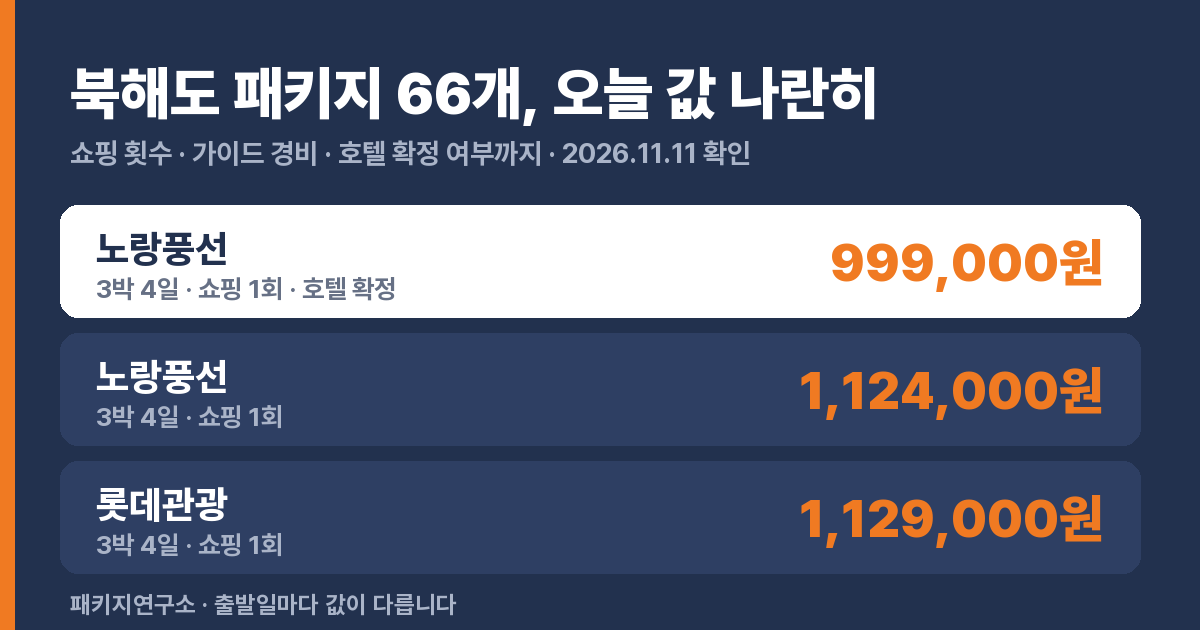
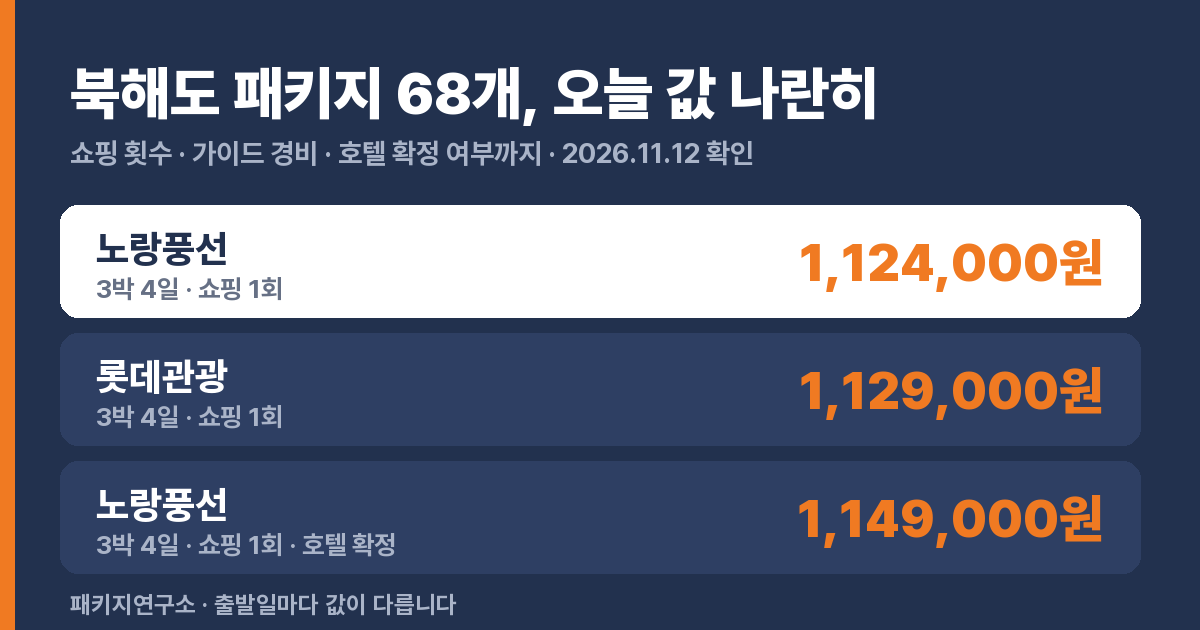
목적지 비교 페이지 2026.11.12

diff --git a/d/hokkaido.html b/d/hokkaido.html
@@ -1,8 +1,8 @@
 <!doctype html><html lang="ko"><head>
 <meta charset="utf-8"><meta name="viewport" content="width=device-width,initial-scale=1">
-<title>북해도 패키지 비교 66개 · 북해도 패키지 여행 경비 — 11/11 기준 최저 999,000원 | 패키지연구소</title>
-<meta name="description" content="북해도 패키지 66개 오늘 값 · 1인 999,000원부터 · 노쇼핑 7개 · 부모님 모시기 편한 조건(낮 출발·쇼핑 1회 이하·가이드 경비 포함) 21개. 쇼핑 횟수·가이드 경비·호텔 확정 여부로 나란히 비교합니다.">
-<link rel="canonical" href="https://package-researcher.github.io/d/hokkaido.html"><meta property="og:type" content="website"><meta property="og:url" content="https://package-researcher.github.io/d/hokkaido.html"><meta property="og:title" content="북해도 패키지 66개, 나란히 비교"><meta property="og:description" content="가격·쇼핑 횟수·가이드 경비·호텔 확정 여부 · 오늘 기준 요금"><meta property="og:image" content="https://package-researcher.github.io/d/og/hokkaido.png"><meta property="og:image:width" content="1200"><meta property="og:image:height" content="630"><meta name="twitter:card" content="summary_large_image"><script type="application/ld+json">{"@context": "https://schema.org", "@graph": [{"@type": "WebPage", "name": "북해도 패키지 66개 비교", "url": "https://package-researcher.github.io/d/hokkaido.html", "publisher": {"@type": "Organization", "name": "패키지연구소", "url": "https://package-researcher.github.io/", "logo": "https://package-researcher.github.io/logo.png", "sameAs": ["https://www.youtube.com/@package-researcher", "https://www.instagram.com/package_researcher", "https://www.threads.net/@package_researcher", "https://clip.naver.com/@packagelabs", "https://blog.naver.com/robotnady10", "https://spnd.tistory.com"]}, "inLanguage": "ko-KR", "dateModified": "2026-11-11"}, {"@type": "BreadcrumbList", "itemListElement": [{"@type": "ListItem", "position": 1, "name": "패키지연구소", "item": "https://package-researcher.github.io/"}, {"@type": "ListItem", "position": 2, "name": "북해도 패키지 비교", "item": "https://package-researcher.github.io/d/hokkaido.html"}]}, {"@type": "ItemList", "name": "북해도 패키지 값싼 순", "numberOfItems": 66, "itemListElement": [{"@type": "ListItem", "position": 1, "item": {"@type": "Product", "name": "나고야4일신호타카로프웨이겐로쿠엔천연온천나고야특급호텔4대특식나고야성", "brand": {"@type": "Organization", "name": "노랑풍선"}, "description": "3박 4일 · 쇼핑 1회 · 현지 가이드 경비 4,000엔", "offers": {"@type": "Offer", "price": 999000, "priceCurrency": "KRW", "url": "https://package-researcher.github.io/d/hokkaido.html", "seller": {"@type": "Organization", "name": "노랑풍선"}}}}, {"@type": "ListItem", "position": 2, "item": {"@type": "Product", "name": "부산출발 삿포로 4일 온천호텔3박 실속 이온몰 비에이 후라노 오타루 노보리베츠 도야", "brand": {"@type": "Organization", "name": "노랑풍선"}, "description": "3박 4일 · 쇼핑 1회 · 현지 가이드 경비 4만원", "offers": {"@type": "Offer", "price": 1124000, "priceCurrency": "KRW", "url": "https://package-researcher.github.io/d/hokkaido.html", "seller": {"@type": "Organization", "name": "노랑풍선"}}}}, {"@type": "ListItem", "position": 3, "item": {"@type": "Product", "name": "부산[ZE][실속]청정자연[온천호텔1박+삿포로2박][청의호수/흰수염폭포+대게무제한] 비에이/후라노/삿포로 4일", "brand": {"@type": "Organization", "name": "롯데관광"}, "description": "3박 4일 · 쇼핑 1회 · 현지 가이드 경비 4만원", "offers": {"@type": "Offer", "price": 1129000, "priceCurrency": "KRW", "url": "https://package-researcher.github.io/d/hokkaido.html", "seller": {"@type": "Organization", "name": "롯데관광"}}}}, {"@type": "ListItem", "position": 4, "item": {"@type": "Product", "name": "북해도4일[팁포함]특급온천호텔2박,프리미엄소운쿄숙박,로프웨이,대게뷔페+샤브샤브,비에이,오타루", "brand": {"@type": "Organization", "name": "노랑풍선"}, "description": "3박 4일 · 쇼핑 1회 · 가이드 경비 포함", "offers": {"@type": "Offer", "price": 1149000, "priceCurrency": "KRW", "url": "https://package-researcher.github.io/d/hokkaido.html", "seller": {"@type": "Organization", "name": "노랑풍선"}}}}, {"@type": "ListItem", "position": 5, "item": {"@type": "Product", "name": "[북해도 3대 온천여행] 북해도 4일게뷔페/주류무제한/온천2박/팁포함", "brand": {"@type": "Organization", "name": "참좋은여행"}, "description": "3박 4일 · 쇼핑 1회 · 가이드 경비 포함", "offers": {"@type": "Offer", "price": 1149000, "priceCurrency": "KRW", "url": "https://package-researcher.github.io/d/hokkaido.html", "seller": {"@type": "Organization", "name": "참좋은여행"}}}}, {"@type": "ListItem", "position": 6, "item": {"@type": "Product", "name": "북해도4일/ [일루미네이션 축제][도야썬팔레스/호수뷰]대게뷔페2회+주류무제한 / 특급온천2박+시내1박", "brand": {"@type": "Organization", "name": "교원투어 여행이지"}, "description": "3박 4일 · 쇼핑 1회 · 현지 가이드 경비 4,000엔", "offers": {"@type": "Offer", "price": 1149000, "priceCurrency": "KRW", "url": "https://package-researcher.github.io/d/hokkaido.html", "seller": {"@type": "Organization", "name": "교원투어 여행이지"}}}}, {"@type": "ListItem", "position": 7, "item": {"@type": "Product", "name": "[확정/부산/이스타항공/오후출발][온천호텔 숙박] 후라노/비에이, 노보리베츠/도야/오타루/삿포로 4일", "brand": {"@type": "Organization", "name": "참좋은여행"}, "description": "3박 4일 · 쇼핑 1회 · 현지 가이드 경비 4만원", "offers": {"@type": "Offer", "price": 1162000, "priceCurrency": "KRW", "url": "https://package-researcher.github.io/d/hokkaido.html", "seller": {"@type": "Organization", "name": "참좋은여행"}}}}, {"@type": "ListItem", "position": 8, "item": {"@type": "Product", "name": "삿포로 일루미네이션[온천 2박+ 시내스파 1박] 북해도/비에이/오비히로 4일 [모르온천/팁포함/게뷔페]", "brand": {"@type": "Organization", "name": "참좋은여행"}, "description": "3박 4일 · 쇼핑 1회 · 가이드 경비 포함", "offers": {"@type": "Offer", "price": 1199000, "priceCurrency": "KRW", "url": "https://package-researcher.github.io/d/hokkaido.html", "seller": {"@type": "Organization", "name": "참좋은여행"}}}}, {"@type": "ListItem", "position": 9, "item": {"@type": "Product", "name": "북해도4일[눈꽃여행][일루미네이션]오타루숙박+운하야경/비에이/도야/삿포로 / 전일정특급 + 온천", "brand": {"@type": "Organization", "name": "교원투어 여행이지"}, "description": "3박 4일 · 쇼핑 1회 · 현지 가이드 경비 4,000엔", "offers": {"@type": "Offer", "price": 1199000, "priceCurrency": "KRW", "url": "https://package-researcher.github.io/d/hokkaido.html", "seller": {"@type": "Organization", "name": "교원투어 여행이지"}}}}, {"@type": "ListItem", "position": 10, "item": {"@type": "Product", "name": "[기타유자와 특급 온천/노보리베츠 온천] 프리미엄 북해도 4일[팁포함/3대 게뷔페/주류 무제한 2회]", "brand": {"@type": "Organization", "name": "참좋은여행"}, "description": "3박 4일 · 쇼핑 1회 · 가이드 경비 포함", "offers": {"@type": "Offer", "price": 1249000, "priceCurrency": "KRW", "url": "https://package-researcher.github.io/d/hokkaido.html", "seller": {"@type": "Organization", "name": "참좋은여행"}}}}]}]}</script>
+<title>북해도 패키지 비교 68개 · 북해도 패키지 여행 경비 — 11/12 기준 최저 1,124,000원 | 패키지연구소</title>
+<meta name="description" content="북해도 패키지 68개 오늘 값 · 1인 1,124,000원부터 · 노쇼핑 7개 · 부모님 모시기 편한 조건(낮 출발·쇼핑 1회 이하·가이드 경비 포함) 22개. 쇼핑 횟수·가이드 경비·호텔 확정 여부로 나란히 비교합니다.">
+<link rel="canonical" href="https://package-researcher.github.io/d/hokkaido.html"><meta property="og:type" content="website"><meta property="og:url" content="https://package-researcher.github.io/d/hokkaido.html"><meta property="og:title" content="북해도 패키지 68개, 나란히 비교"><meta property="og:description" content="가격·쇼핑 횟수·가이드 경비·호텔 확정 여부 · 오늘 기준 요금"><meta property="og:image" content="https://package-researcher.github.io/d/og/hokkaido.png"><meta property="og:image:width" content="1200"><meta property="og:image:height" content="630"><meta name="twitter:card" content="summary_large_image"><script type="application/ld+json">{"@context": "https://schema.org", "@graph": [{"@type": "WebPage", "name": "북해도 패키지 68개 비교", "url": "https://package-researcher.github.io/d/hokkaido.html", "publisher": {"@type": "Organization", "name": "패키지연구소", "url": "https://package-researcher.github.io/", "logo": "https://package-researcher.github.io/logo.png", "sameAs": ["https://www.youtube.com/@package-researcher", "https://www.instagram.com/package_researcher", "https://www.threads.net/@package_researcher", "https://clip.naver.com/@packagelabs", "https://blog.naver.com/robotnady10", "https://spnd.tistory.com"]}, "inLanguage": "ko-KR", "dateModified": "2026-11-12"}, {"@type": "BreadcrumbList", "itemListElement": [{"@type": "ListItem", "position": 1, "name": "패키지연구소", "item": "https://package-researcher.github.io/"}, {"@type": "ListItem", "position": 2, "name": "북해도 패키지 비교", "item": "https://package-researcher.github.io/d/hokkaido.html"}]}, {"@type": "ItemList", "name": "북해도 패키지 값싼 순", "numberOfItems": 68, "itemListElement": [{"@type": "ListItem", "position": 1, "item": {"@type": "Product", "name": "부산출발 삿포로 4일 온천호텔3박 실속 이온몰 비에이 후라노 오타루 노보리베츠 도야", "brand": {"@type": "Organization", "name": "노랑풍선"}, "description": "3박 4일 · 쇼핑 1회 · 현지 가이드 경비 4만원", "offers": {"@type": "Offer", "price": 1124000, "priceCurrency": "KRW", "url": "https://package-researcher.github.io/d/hokkaido.html", "seller": {"@type": "Organization", "name": "노랑풍선"}}}}, {"@type": "ListItem", "position": 2, "item": {"@type": "Product", "name": "부산[ZE][실속]청정자연[온천호텔1박+삿포로2박][청의호수/흰수염폭포+대게무제한] 비에이/후라노/삿포로 4일", "brand": {"@type": "Organization", "name": "롯데관광"}, "description": "3박 4일 · 쇼핑 1회 · 현지 가이드 경비 4만원", "offers": {"@type": "Offer", "price": 1129000, "priceCurrency": "KRW", "url": "https://package-researcher.github.io/d/hokkaido.html", "seller": {"@type": "Organization", "name": "롯데관광"}}}}, {"@type": "ListItem", "position": 3, "item": {"@type": "Product", "name": "북해도4일[팁포함]특급온천호텔2박,프리미엄소운쿄숙박,로프웨이,대게뷔페+샤브샤브,비에이,오타루", "brand": {"@type": "Organization", "name": "노랑풍선"}, "description": "3박 4일 · 쇼핑 1회 · 가이드 경비 포함", "offers": {"@type": "Offer", "price": 1149000, "priceCurrency": "KRW", "url": "https://package-researcher.github.io/d/hokkaido.html", "seller": {"@type": "Organization", "name": "노랑풍선"}}}}, {"@type": "ListItem", "position": 4, "item": {"@type": "Product", "name": "[북해도 3대 온천여행] 북해도 4일게뷔페/주류무제한/온천2박/팁포함", "brand": {"@type": "Organization", "name": "참좋은여행"}, "description": "3박 4일 · 쇼핑 1회 · 가이드 경비 포함", "offers": {"@type": "Offer", "price": 1149000, "priceCurrency": "KRW", "url": "https://package-researcher.github.io/d/hokkaido.html", "seller": {"@type": "Organization", "name": "참좋은여행"}}}}, {"@type": "ListItem", "position": 5, "item": {"@type": "Product", "name": "북해도4일/ [일루미네이션 축제][도야썬팔레스/호수뷰]대게뷔페2회+주류무제한 / 특급온천2박+시내1박", "brand": {"@type": "Organization", "name": "교원투어 여행이지"}, "description": "3박 4일 · 쇼핑 1회 · 현지 가이드 경비 4,000엔", "offers": {"@type": "Offer", "price": 1149000, "priceCurrency": "KRW", "url": "https://package-researcher.github.io/d/hokkaido.html", "seller": {"@type": "Organization", "name": "교원투어 여행이지"}}}}, {"@type": "ListItem", "position": 6, "item": {"@type": "Product", "name": "[확정/부산/이스타항공/오후출발][온천호텔 숙박] 후라노/비에이, 노보리베츠/도야/오타루/삿포로 4일", "brand": {"@type": "Organization", "name": "참좋은여행"}, "description": "3박 4일 · 쇼핑 1회 · 현지 가이드 경비 4만원", "offers": {"@type": "Offer", "price": 1162000, "priceCurrency": "KRW", "url": "https://package-researcher.github.io/d/hokkaido.html", "seller": {"@type": "Organization", "name": "참좋은여행"}}}}, {"@type": "ListItem", "position": 7, "item": {"@type": "Product", "name": "삿포로 일루미네이션[온천 2박+ 시내스파 1박] 북해도/비에이/오비히로 4일 [모르온천/팁포함/게뷔페]", "brand": {"@type": "Organization", "name": "참좋은여행"}, "description": "3박 4일 · 쇼핑 1회 · 가이드 경비 포함", "offers": {"@type": "Offer", "price": 1199000, "priceCurrency": "KRW", "url": "https://package-researcher.github.io/d/hokkaido.html", "seller": {"@type": "Organization", "name": "참좋은여행"}}}}, {"@type": "ListItem", "position": 8, "item": {"@type": "Product", "name": "북해도4일[눈꽃여행][일루미네이션]오타루숙박+운하야경/비에이/도야/삿포로 / 전일정특급 + 온천", "brand": {"@type": "Organization", "name": "교원투어 여행이지"}, "description": "3박 4일 · 쇼핑 1회 · 현지 가이드 경비 4,000엔", "offers": {"@type": "Offer", "price": 1199000, "priceCurrency": "KRW", "url": "https://package-researcher.github.io/d/hokkaido.html", "seller": {"@type": "Organization", "name": "교원투어 여행이지"}}}}, {"@type": "ListItem", "position": 9, "item": {"@type": "Product", "name": "[기타유자와 특급 온천/노보리베츠 온천] 프리미엄 북해도 4일[팁포함/3대 게뷔페/주류 무제한 2회]", "brand": {"@type": "Organization", "name": "참좋은여행"}, "description": "3박 4일 · 쇼핑 1회 · 가이드 경비 포함", "offers": {"@type": "Offer", "price": 1249000, "priceCurrency": "KRW", "url": "https://package-researcher.github.io/d/hokkaido.html", "seller": {"@type": "Organization", "name": "참좋은여행"}}}}, {"@type": "ListItem", "position": 10, "item": {"@type": "Product", "name": "삿포로 일루미네이션[힐튼 특급호텔+팁포함] 북해도 4일[온천 2박/3대 게뷔페+주류 무제한/야식소바]", "brand": {"@type": "Organization", "name": "참좋은여행"}, "description": "3박 4일 · 쇼핑 1회 · 가이드 경비 포함", "offers": {"@type": "Offer", "price": 1249000, "priceCurrency": "KRW", "url": "https://package-researcher.github.io/d/hokkaido.html", "seller": {"@type": "Organization", "name": "참좋은여행"}}}}]}]}</script>
 <style>
 *{box-sizing:border-box}
 body{margin:0;background:#F7F5EF;color:#22314E;word-break:keep-all;overflow-wrap:anywhere;
@@ -62,17 +62,16 @@ h1{font-size:27px;line-height:1.3;margin:6px 0 4px;letter-spacing:-.02em}
 </style></head><body><div class="wrap">
 <a class="back" href="https://package-researcher.github.io/">← 패키지연구소</a>
 <h1>북해도 패키지 비교 — 오늘 값 나란히</h1>
-<p class="sub">66개 · 2026.11.11 기준 · 값싼 순</p>
-<p class="answer" style="font-size:16px;line-height:1.6;margin:6px 0 10px"><b>한 줄 답:</b> 2026.11.11 기준 북해도 패키지 66개 중 최저 999,000원(노랑풍선 · 3박 4일), 쇼핑 없는 상품은 1,469,900원부터, 부모님 모시기 편한 조건(낮 출발·쇼핑 1회 이하·가이드 경비 포함)은 1,149,000원부터입니다. 출발일마다 값이 다릅니다.</p><p class="sub" style="margin-top:-4px">「북해도 패키지 여행 경비」·「일본 북해도 패키지」 찾는 분께 — 오늘 판매 중인 북해도 패키지를 값만이 아니라 쇼핑·가이드 경비·출발 시각까지 한 화면에 놓았습니다.</p><p class="sub"><a href="https://package-researcher.github.io/d/family.html?s=cmp">환갑·칠순 가족여행이면 → 목적지별 6명·10명 총액 비교</a></p><p class="sub"><a href="https://package-researcher.github.io/t/hokkaido.html">북해도 공항→시내·근교 이동 시간 표 →</a></p>
-<div class="top3"><h2>오늘 최저가 3</h2><div class="t3"><div class="rk">1</div><div class="who"><b>노랑풍선</b><span>3박 4일 · 쇼핑 1회 · 현지 가이드 경비 4,000엔</span></div><div class="t3p">999,000원</div><a href="/r/n/FUiXf4ZM.html" target="_blank" rel="sponsored noopener">요금 보기</a></div><div class="t3"><div class="rk">2</div><div class="who"><b>노랑풍선</b><span>3박 4일 · 쇼핑 1회 · 현지 가이드 경비 4만원</span></div><div class="t3p">1,124,000원</div><a href="/r/n/GT4keUgP.html" target="_blank" rel="sponsored noopener">요금 보기</a></div><div class="t3"><div class="rk">3</div><div class="who"><b>롯데관광</b><span>3박 4일 · 쇼핑 1회 · 현지 가이드 경비 4만원</span></div><div class="t3p">1,129,000원</div><a href="/r/n/GmpguQem.html" target="_blank" rel="sponsored noopener">요금 보기</a></div></div>
+<p class="sub">68개 · 2026.11.12 기준 · 값싼 순</p>
+<p class="answer" style="font-size:16px;line-height:1.6;margin:6px 0 10px"><b>한 줄 답:</b> 2026.11.12 기준 북해도 패키지 68개 중 최저 1,124,000원(노랑풍선 · 3박 4일), 쇼핑 없는 상품은 1,469,900원부터, 부모님 모시기 편한 조건(낮 출발·쇼핑 1회 이하·가이드 경비 포함)은 1,149,000원부터입니다. 출발일마다 값이 다릅니다.</p><p class="sub" style="margin-top:-4px">「북해도 패키지 여행 경비」·「일본 북해도 패키지」 찾는 분께 — 오늘 판매 중인 북해도 패키지를 값만이 아니라 쇼핑·가이드 경비·출발 시각까지 한 화면에 놓았습니다.</p><p class="sub"><a href="https://package-researcher.github.io/d/family.html?s=cmp">환갑·칠순 가족여행이면 → 목적지별 6명·10명 총액 비교</a></p><p class="sub"><a href="https://package-researcher.github.io/t/hokkaido.html">북해도 공항→시내·근교 이동 시간 표 →</a></p>
+<div class="top3"><h2>오늘 최저가 3</h2><div class="t3"><div class="rk">1</div><div class="who"><b>노랑풍선</b><span>3박 4일 · 쇼핑 1회 · 현지 가이드 경비 4만원</span></div><div class="t3p">1,124,000원</div><a href="/r/n/GT4keUgP.html" target="_blank" rel="sponsored noopener">요금 보기</a></div><div class="t3"><div class="rk">2</div><div class="who"><b>롯데관광</b><span>3박 4일 · 쇼핑 1회 · 현지 가이드 경비 4만원</span></div><div class="t3p">1,129,000원</div><a href="/r/n/GmpguQem.html" target="_blank" rel="sponsored noopener">요금 보기</a></div><div class="t3"><div class="rk">3</div><div class="who"><b>노랑풍선</b><span>3박 4일 · 쇼핑 1회 · 가이드 경비 포함</span></div><div class="t3p">1,149,000원</div><a href="/r/n/FlBVQZtD.html" target="_blank" rel="sponsored noopener">요금 보기</a></div></div>
 <div class="plab"><div class="plab-t">북해도 패키지 전체를 조건으로 비교</div><div class="plab-s">쇼핑 0회·선택관광 없음·가이드 경비 포함만 골라 보기</div><a class="plab-go" href="https://pkg-lab.com/go/?q=%EB%B6%81%ED%95%B4%EB%8F%84&amp;utm_source=ghpages&amp;utm_medium=card&amp;utm_campaign=dest" target="_blank" rel="sponsored noopener">조건으로 골라 보기 →</a></div>
 <div class="note"><b>이 표를 보는 법.</b> 값만 보면 안 됩니다.
 <b>쇼핑 횟수</b>가 값을 만들고(0회면 보통 20만원 이상 비쌉니다),
 <b>가이드 경비</b>는 현지에서 따로 내는 돈이며,
 <b>호텔 확정</b>은 이름이 미리 정해졌는지입니다(미정이면 등급만 보장).
 같은 목적지라도 이 셋으로 실제 부담이 갈립니다.</div>
-<div class="card best"><div class="tag">최저가</div> <div class="tag gray">호텔 확정</div><div class="name">나고야4일신호타카로프웨이겐로쿠엔천연온천나고야특급호텔4대특식나고야성</div><div class="price">999,000원<span>1인</span></div><div class="grid"><div class="kv"><b>여행사</b>노랑풍선</div><div class="kv"><b>일정</b>3박 4일</div><div class="kv"><b>항공</b>제주항공 직항</div><div class="kv"><b>출발</b>09:05</div><div class="kv"><b>쇼핑</b>1회</div><div class="kv"><b>가이드 경비</b>4,000엔</div><div class="kv"><b>식사</b>10회</div><div class="kv"><b>호텔</b>호텔 앰비언트 아즈미노</div><div class="kv"><b>인솔자</b>없음</div></div><div class="fit"><span class="ok">좋은 점</span> 직항 · 호텔 미리 확정<br><span class="no">따져볼 점</span> 가이드 경비 현지 4,000엔</div><a class="go" href="/r/n/FUiXf4ZM.html" target="_blank" rel="sponsored noopener">오늘 기준 요금 보기</a></div>
-<div class="card"><div class="name">부산출발 삿포로 4일 온천호텔3박 실속 이온몰 비에이 후라노 오타루 노보리베츠 도야</div><div class="price">1,124,000원<span>1인</span></div><div class="grid"><div class="kv"><b>여행사</b>노랑풍선</div><div class="kv"><b>일정</b>3박 4일</div><div class="kv"><b>항공</b>이스타항공 직항</div><div class="kv"><b>출발</b>14:30</div><div class="kv"><b>쇼핑</b>1회</div><div class="kv"><b>가이드 경비</b>4만원</div><div class="kv"><b>식사</b>8회</div><div class="kv"><b>호텔</b>조잔케이 뷰 호텔 또는 동급</div><div class="kv"><b>인솔자</b>없음</div></div><div class="fit"><span class="ok">좋은 점</span> 직항<br><span class="no">따져볼 점</span> 가이드 경비 현지 4만원</div><a class="go" href="/r/n/GT4keUgP.html" target="_blank" rel="sponsored noopener">오늘 기준 요금 보기</a></div>
+<div class="card best"><div class="tag">최저가</div><div class="name">부산출발 삿포로 4일 온천호텔3박 실속 이온몰 비에이 후라노 오타루 노보리베츠 도야</div><div class="price">1,124,000원<span>1인</span></div><div class="grid"><div class="kv"><b>여행사</b>노랑풍선</div><div class="kv"><b>일정</b>3박 4일</div><div class="kv"><b>항공</b>이스타항공 직항</div><div class="kv"><b>출발</b>14:30</div><div class="kv"><b>쇼핑</b>1회</div><div class="kv"><b>가이드 경비</b>4만원</div><div class="kv"><b>식사</b>8회</div><div class="kv"><b>호텔</b>조잔케이 뷰 호텔 또는 동급</div><div class="kv"><b>인솔자</b>없음</div></div><div class="fit"><span class="ok">좋은 점</span> 직항<br><span class="no">따져볼 점</span> 가이드 경비 현지 4만원</div><a class="go" href="/r/n/GT4keUgP.html" target="_blank" rel="sponsored noopener">오늘 기준 요금 보기</a></div>
 <div class="card"><div class="name">부산[ZE][실속]청정자연[온천호텔1박+삿포로2박][청의호수/흰수염폭포+대게무제한] 비에이/후라노/삿포로 4일</div><div class="price">1,129,000원<span>1인</span></div><div class="grid"><div class="kv"><b>여행사</b>롯데관광</div><div class="kv"><b>일정</b>3박 4일</div><div class="kv"><b>항공</b>이스타항공 직항</div><div class="kv"><b>출발</b>14:30</div><div class="kv"><b>쇼핑</b>1회</div><div class="kv"><b>가이드 경비</b>4만원</div><div class="kv"><b>식사</b>8회</div><div class="kv"><b>인솔자</b>동행</div></div><div class="fit"><span class="ok">좋은 점</span> 직항 · 인솔자 동행<br><span class="no">따져볼 점</span> 가이드 경비 현지 4만원</div><a class="go" href="/r/n/GmpguQem.html" target="_blank" rel="sponsored noopener">오늘 기준 요금 보기</a></div>
 <div class="card"><div class="tag gray">호텔 확정</div><div class="name">북해도4일[팁포함]특급온천호텔2박,프리미엄소운쿄숙박,로프웨이,대게뷔페+샤브샤브,비에이,오타루</div><div class="price">1,149,000원<span>1인</span></div><div class="grid"><div class="kv"><b>여행사</b>노랑풍선</div><div class="kv"><b>일정</b>3박 4일</div><div class="kv"><b>항공</b>이스타항공 직항</div><div class="kv"><b>출발</b>09:10</div><div class="kv"><b>쇼핑</b>1회</div><div class="kv"><b>가이드 경비</b>포함</div><div class="kv"><b>식사</b>9회</div><div class="kv"><b>호텔</b>소운카쿠 그랜드 호텔</div><div class="kv"><b>인솔자</b>동행</div></div><div class="fit"><span class="ok">좋은 점</span> 가이드 경비 포함 · 직항 · 호텔 미리 확정</div><a class="go" href="/r/n/FlBVQZtD.html" target="_blank" rel="sponsored noopener">오늘 기준 요금 보기</a></div>
 <div class="card"><div class="name">[북해도 3대 온천여행] 북해도 4일게뷔페/주류무제한/온천2박/팁포함</div><div class="price">1,149,000원<span>1인</span></div><div class="grid"><div class="kv"><b>여행사</b>참좋은여행</div><div class="kv"><b>일정</b>3박 4일</div><div class="kv"><b>항공</b>이스타항공 직항</div><div class="kv"><b>출발</b>07:40</div><div class="kv"><b>쇼핑</b>1회</div><div class="kv"><b>가이드 경비</b>포함</div><div class="kv"><b>식사</b>8회</div><div class="kv"><b>호텔</b>파크 호텔 미야비테이 또는 동급</div><div class="kv"><b>인솔자</b>동행</div></div><div class="fit"><span class="ok">좋은 점</span> 가이드 경비 포함 · 직항 · 인솔자 동행</div><a class="go" href="/r/n/GprgefAH.html" target="_blank" rel="sponsored noopener">오늘 기준 요금 보기</a></div>
@@ -108,9 +107,11 @@ h1{font-size:27px;line-height:1.3;margin:6px 0 4px;letter-spacing:-.02em}
 <div class="card"><div class="tag gray">호텔 확정</div><div class="name">홋카이도 4일 노보리베쓰 온천 도야유람선 온천호텔2박+시내1박 지다이무라 대게+주류무제한</div><div class="price">1,399,000원<span>1인</span></div><div class="grid"><div class="kv"><b>여행사</b>하나투어</div><div class="kv"><b>일정</b>3박 4일</div><div class="kv"><b>항공</b>에어프레미아 직항</div><div class="kv"><b>출발</b>09:40</div><div class="kv"><b>쇼핑</b>1회</div><div class="kv"><b>가이드 경비</b>4,000엔</div><div class="kv"><b>식사</b>9회</div><div class="kv"><b>호텔</b>파크 호텔 미야비테이</div><div class="kv"><b>인솔자</b>동행</div></div><div class="fit"><span class="ok">좋은 점</span> 직항 · 호텔 미리 확정 · 인솔자 동행<br><span class="no">따져볼 점</span> 가이드 경비 현지 4,000엔</div><a class="go" href="/r/n/G4dVAmXY.html" target="_blank" rel="sponsored noopener">오늘 기준 요금 보기</a></div>
 <div class="card"><div class="tag gray">호텔 확정</div><div class="name">[호텔업그레이드/기내식1회특별포함]홋카이도 4일 온천2박 마호로바업그레이드 도야유람선 다테지다이무라 삿포로 낭만오타루 게+샤브샤브+주류무제한</div><div class="price">1,399,900원<span>1인</span></div><div class="grid"><div class="kv"><b>여행사</b>하나투어</div><div class="kv"><b>일정</b>3박 4일</div><div class="kv"><b>항공</b>트리니티항공 직항</div><div class="kv"><b>출발</b>09:10</div><div class="kv"><b>쇼핑</b>1회</div><div class="kv"><b>가이드 경비</b>4,000엔</div><div class="kv"><b>식사</b>9회</div><div class="kv"><b>호텔</b>토야 선 팰리스 리조트 &amp; 스파</div><div class="kv"><b>인솔자</b>동행</div></div><div class="fit"><span class="ok">좋은 점</span> 직항 · 호텔 미리 확정 · 인솔자 동행<br><span class="no">따져볼 점</span> 가이드 경비 현지 4,000엔</div><a class="go" href="/r/n/GkICrxcF.html" target="_blank" rel="sponsored noopener">오늘 기준 요금 보기</a></div>
 <div class="card"><div class="tag gray">호텔 확정</div><div class="name">홋카이도 4일 후라노&amp;비에이 노보리베츠 천연온천 죠잔케이 삿포로2박 대게+음료 무제한</div><div class="price">1,439,000원<span>1인</span></div><div class="grid"><div class="kv"><b>여행사</b>하나투어</div><div class="kv"><b>일정</b>3박 4일</div><div class="kv"><b>항공</b>이스타항공 직항</div><div class="kv"><b>출발</b>09:10</div><div class="kv"><b>쇼핑</b>1회</div><div class="kv"><b>가이드 경비</b>4,000엔</div><div class="kv"><b>식사</b>9회</div><div class="kv"><b>호텔</b>조잔케이 뷰 호텔</div><div class="kv"><b>인솔자</b>동행</div></div><div class="fit"><span class="ok">좋은 점</span> 직항 · 호텔 미리 확정 · 인솔자 동행<br><span class="no">따져볼 점</span> 가이드 경비 현지 4,000엔</div><a class="go" href="/r/n/Fkaw9CYb.html" target="_blank" rel="sponsored noopener">오늘 기준 요금 보기</a></div>
+<div class="card"><div class="name">[가성비끝판왕] 삿포로/오타루/비에이 4일 (온천1박+시내2박+게다리뷔페)</div><div class="price">1,459,900원<span>1인</span></div><div class="grid"><div class="kv"><b>여행사</b>모두투어</div><div class="kv"><b>일정</b>3박 4일</div><div class="kv"><b>항공</b>제주항공 직항</div><div class="kv"><b>출발</b>11:00</div><div class="kv"><b>쇼핑</b>1회</div><div class="kv"><b>가이드 경비</b>4,000엔</div><div class="kv"><b>식사</b>8회</div><div class="kv"><b>인솔자</b>동행</div></div><div class="fit"><span class="ok">좋은 점</span> 직항 · 인솔자 동행<br><span class="no">따져볼 점</span> 가이드 경비 현지 4,000엔</div><a class="go" href="/r/n/xJcmAc9F.html" target="_blank" rel="sponsored noopener">오늘 기준 요금 보기</a></div>
 <div class="card"><div class="tag gray">호텔 확정</div><div class="name">[공동행사]홋카이도 4일 온천2박 도야유람선 다테지다이무라 삿포로 낭만오타루 게+샤브샤브+주류무제한</div><div class="price">1,459,900원<span>1인</span></div><div class="grid"><div class="kv"><b>여행사</b>하나투어</div><div class="kv"><b>일정</b>3박 4일</div><div class="kv"><b>항공</b>에어부산 직항</div><div class="kv"><b>출발</b>09:00</div><div class="kv"><b>쇼핑</b>1회</div><div class="kv"><b>가이드 경비</b>4,000엔</div><div class="kv"><b>식사</b>9회</div><div class="kv"><b>호텔</b>토야 선 팰리스 리조트 &amp; 스파</div><div class="kv"><b>인솔자</b>동행</div></div><div class="fit"><span class="ok">좋은 점</span> 직항 · 호텔 미리 확정 · 인솔자 동행<br><span class="no">따져볼 점</span> 가이드 경비 현지 4,000엔</div><a class="go" href="/r/n/xNpfJtnn.html" target="_blank" rel="sponsored noopener">오늘 기준 요금 보기</a></div>
 <div class="card"><div class="tag gray">호텔 확정</div><div class="name">홋카이도 4일 MD추천 비에이 크리스마스트리 타쿠신칸 자작나무길 아오이이케 시라히게노타키 낭만오타루산책 3대온천마을 소운쿄온천 대게특식</div><div class="price">1,469,900원<span>1인</span></div><div class="grid"><div class="kv"><b>여행사</b>하나투어</div><div class="kv"><b>일정</b>3박 4일</div><div class="kv"><b>항공</b>이스타항공 직항</div><div class="kv"><b>출발</b>14:30</div><div class="kv"><b>쇼핑</b>0회</div><div class="kv"><b>가이드 경비</b>포함</div><div class="kv"><b>식사</b>9회</div><div class="kv"><b>호텔</b>삿포로 프린스 호텔</div><div class="kv"><b>인솔자</b>동행</div></div><div class="fit"><span class="ok">좋은 점</span> 쇼핑 없음 · 가이드 경비 포함 · 직항</div><a class="go" href="/r/n/51u8EeNV.html" target="_blank" rel="sponsored noopener">오늘 기준 요금 보기</a></div>
 <div class="card"><div class="name">부산출발 삿포로 4일 한번에 다보는 꽉찬일정 온천호텔 2박 특식3회 삿포로 비에이 오타루 도야 노보리베츠</div><div class="price">1,486,000원<span>1인</span></div><div class="grid"><div class="kv"><b>여행사</b>노랑풍선</div><div class="kv"><b>일정</b>3박 4일</div><div class="kv"><b>항공</b>에어부산 직항</div><div class="kv"><b>출발</b>09:00</div><div class="kv"><b>쇼핑</b>1회</div><div class="kv"><b>가이드 경비</b>4만원</div><div class="kv"><b>식사</b>9회</div><div class="kv"><b>호텔</b>도야 썬팔레스 호텔 또는 도야 만세각 호텔  또는 동급</div><div class="kv"><b>인솔자</b>없음</div></div><div class="fit"><span class="ok">좋은 점</span> 직항<br><span class="no">따져볼 점</span> 가이드 경비 현지 4만원</div><a class="go" href="/r/n/5DZIpPl4.html" target="_blank" rel="sponsored noopener">오늘 기준 요금 보기</a></div>
+<div class="card"><div class="name">[스마트초이스] 홋카이도 4일후라노&amp;비에이 온천호텔2박+시내1박 크리스마스 나무 대게+샤브샤브+주류(음료)무제한 청정온천 소운쿄온천 죠잔케이</div><div class="price">1,499,000원<span>1인</span></div><div class="grid"><div class="kv"><b>여행사</b>하나투어</div><div class="kv"><b>일정</b>3박 4일</div><div class="kv"><b>항공</b>이스타항공 직항</div><div class="kv"><b>출발</b>14:35</div><div class="kv"><b>쇼핑</b>1회</div><div class="kv"><b>가이드 경비</b>4,000엔</div><div class="kv"><b>식사</b>9회</div><div class="kv"><b>호텔</b>베셀 호텔 캄파나 스스키노 또는 동급</div><div class="kv"><b>인솔자</b>동행</div></div><div class="fit"><span class="ok">좋은 점</span> 직항 · 인솔자 동행<br><span class="no">따져볼 점</span> 가이드 경비 현지 4,000엔</div><a class="go" href="/r/n/FyAVun9e.html" target="_blank" rel="sponsored noopener">오늘 기준 요금 보기</a></div>
 <div class="card"><div class="tag gray">호텔 확정</div><div class="name">북해도4일 청주출발 특급온천호텔2박 소운쿄숙박 석식호텔뷔페 삿포로,오타루,비에이</div><div class="price">1,499,000원<span>1인</span></div><div class="grid"><div class="kv"><b>여행사</b>노랑풍선</div><div class="kv"><b>일정</b>3박 4일</div><div class="kv"><b>항공</b>에어로케이 직항</div><div class="kv"><b>출발</b>07:50</div><div class="kv"><b>쇼핑</b>1회</div><div class="kv"><b>가이드 경비</b>4,000엔</div><div class="kv"><b>식사</b>9회</div><div class="kv"><b>호텔</b>조잔케이 뷰 호텔</div><div class="kv"><b>인솔자</b>없음</div></div><div class="fit"><span class="ok">좋은 점</span> 직항 · 호텔 미리 확정<br><span class="no">따져볼 점</span> 가이드 경비 현지 4,000엔</div><a class="go" href="/r/n/58qJzmmi.html" target="_blank" rel="sponsored noopener">오늘 기준 요금 보기</a></div>
 <div class="card"><div class="name">[스테디셀러/비에이숙박][쾌적최단동선]북해도/비에이/오타루 온천 4일 (3대게뷔페/술음료무제한/특급온천2박/노옵션)</div><div class="price">1,499,000원<span>1인</span></div><div class="grid"><div class="kv"><b>여행사</b>모두투어</div><div class="kv"><b>일정</b>3박 4일</div><div class="kv"><b>항공</b>이스타항공 직항</div><div class="kv"><b>출발</b>14:35</div><div class="kv"><b>쇼핑</b>1회</div><div class="kv"><b>가이드 경비</b>4,000엔</div><div class="kv"><b>식사</b>9회</div><div class="kv"><b>인솔자</b>동행</div></div><div class="fit"><span class="ok">좋은 점</span> 직항 · 인솔자 동행<br><span class="no">따져볼 점</span> 가이드 경비 현지 4,000엔</div><a class="go" href="/r/n/Gi04nyBf.html" target="_blank" rel="sponsored noopener">오늘 기준 요금 보기</a></div>
 <div class="card"><div class="name">[품격정통온천/팁포함] 삿포로/오타루/노보리베츠/도야 4일 (온천호텔2박+3대게요리.노미호다이/3대특전)</div><div class="price">1,549,000원<span>1인</span></div><div class="grid"><div class="kv"><b>여행사</b>모두투어</div><div class="kv"><b>일정</b>3박 4일</div><div class="kv"><b>항공</b>트리니티항공 직항</div><div class="kv"><b>출발</b>10:30</div><div class="kv"><b>쇼핑</b>1회</div><div class="kv"><b>가이드 경비</b>포함</div><div class="kv"><b>식사</b>9회</div><div class="kv"><b>인솔자</b>동행</div></div><div class="fit"><span class="ok">좋은 점</span> 가이드 경비 포함 · 직항 · 인솔자 동행</div><a class="go" href="/r/n/5HysY4ov.html" target="_blank" rel="sponsored noopener">오늘 기준 요금 보기</a></div>
@@ -123,6 +124,7 @@ h1{font-size:27px;line-height:1.3;margin:6px 0 4px;letter-spacing:-.02em}
 <div class="card"><div class="tag gray">호텔 확정</div><div class="name">홋카이도 4일 사계절내내베스트 후라노&amp;비에이 대게무제한 샤브샤브 무제한 온천1박 삿포로시내중심2박 감성가득오타루 삿포로 화이트 일루미네이션</div><div class="price">1,599,000원<span>1인</span></div><div class="grid"><div class="kv"><b>여행사</b>하나투어</div><div class="kv"><b>일정</b>3박 4일</div><div class="kv"><b>항공</b>트리니티항공 직항</div><div class="kv"><b>출발</b>10:20</div><div class="kv"><b>쇼핑</b>1회</div><div class="kv"><b>가이드 경비</b>4,000엔</div><div class="kv"><b>식사</b>9회</div><div class="kv"><b>호텔</b>파크 호텔 미야비테이</div><div class="kv"><b>인솔자</b>동행</div></div><div class="fit"><span class="ok">좋은 점</span> 직항 · 호텔 미리 확정 · 인솔자 동행<br><span class="no">따져볼 점</span> 가이드 경비 현지 4,000엔</div><a class="go" href="/r/n/xSBAYaRE.html" target="_blank" rel="sponsored noopener">오늘 기준 요금 보기</a></div>
 <div class="card"><div class="name">품격/항공문의계절에 물든 북해도 2 온천여행 노보리베츠ㆍ죠잔케이ㆍ삿포로 4일 우스산로프웨이/5대특식(대게무제한+음류ㆍ주류무제한)</div><div class="price">1,599,000원<span>1인</span></div><div class="grid"><div class="kv"><b>여행사</b>롯데관광</div><div class="kv"><b>일정</b>3박 4일</div><div class="kv"><b>항공</b>트리니티항공 직항</div><div class="kv"><b>출발</b>10:20</div><div class="kv"><b>쇼핑</b>1회</div><div class="kv"><b>가이드 경비</b>4,000엔</div><div class="kv"><b>식사</b>8회</div><div class="kv"><b>인솔자</b>동행</div></div><div class="fit"><span class="ok">좋은 점</span> 직항 · 인솔자 동행<br><span class="no">따져볼 점</span> 가이드 경비 현지 4,000엔</div><a class="go" href="/r/n/5YosYfQd.html" target="_blank" rel="sponsored noopener">오늘 기준 요금 보기</a></div>
 <div class="card"><div class="tag gray">호텔 확정</div><div class="name">홋카이도 4일 베스트셀러 화이트일루미네이션 인기코스 3대온천마을 노보리베츠 죠잔케이 게요리무제한 별미간식제공</div><div class="price">1,649,000원<span>1인</span></div><div class="grid"><div class="kv"><b>여행사</b>하나투어</div><div class="kv"><b>일정</b>3박 4일</div><div class="kv"><b>항공</b>제주항공 직항</div><div class="kv"><b>출발</b>12:25</div><div class="kv"><b>쇼핑</b>0회</div><div class="kv"><b>가이드 경비</b>포함</div><div class="kv"><b>식사</b>9회</div><div class="kv"><b>호텔</b>이비스 스타일 삿포로</div><div class="kv"><b>인솔자</b>동행</div></div><div class="fit"><span class="ok">좋은 점</span> 쇼핑 없음 · 가이드 경비 포함 · 직항</div><a class="go" href="/r/n/xTyFROEk.html" target="_blank" rel="sponsored noopener">오늘 기준 요금 보기</a></div>
+<div class="card"><div class="tag gray">호텔 확정</div><div class="name">XMAS [도야/조잔케이] 북해도 4일[팁포함/온천2박/게뷔페+주류무제한/이동거리최소화]</div><div class="price">1,699,000원<span>1인</span></div><div class="grid"><div class="kv"><b>여행사</b>참좋은여행</div><div class="kv"><b>일정</b>3박 4일</div><div class="kv"><b>항공</b>진에어 직항</div><div class="kv"><b>출발</b>08:35</div><div class="kv"><b>쇼핑</b>1회</div><div class="kv"><b>가이드 경비</b>포함</div><div class="kv"><b>식사</b>9회</div><div class="kv"><b>호텔</b>도야코 만세이카쿠 호텔 레이크사이드 테라스</div><div class="kv"><b>인솔자</b>동행</div></div><div class="fit"><span class="ok">좋은 점</span> 가이드 경비 포함 · 직항 · 호텔 미리 확정</div><a class="go" href="/r/n/Fz8F5Qvj.html" target="_blank" rel="sponsored noopener">오늘 기준 요금 보기</a></div>
 <div class="card"><div class="name">11/30 / 북해도4일[프라이빗온천][대한항공][료칸숙박]조잔케이/비에이/소운쿄/오타루/삿포로 / 특급온천2박+특급시내1박</div><div class="price">1,699,000원<span>1인</span></div><div class="grid"><div class="kv"><b>여행사</b>교원투어 여행이지</div><div class="kv"><b>일정</b>3박 4일</div><div class="kv"><b>항공</b>대한항공 직항</div><div class="kv"><b>출발</b>13:00</div><div class="kv"><b>쇼핑</b>1회</div><div class="kv"><b>가이드 경비</b>포함</div><div class="kv"><b>식사</b>11회</div><div class="kv"><b>호텔</b>ANA 크라운 플라자 삿포로 또는 동급 또는 동급</div><div class="kv"><b>인솔자</b>동행</div></div><div class="fit"><span class="ok">좋은 점</span> 가이드 경비 포함 · 직항 · 인솔자 동행</div><a class="go" href="/r/n/xllXeG70.html" target="_blank" rel="sponsored noopener">오늘 기준 요금 보기</a></div>
 <div class="card"><div class="tag gray">호텔 확정</div><div class="name">홋카이도 4일후라노 비에이 흰수염폭포 크리스마스 나무 순백의 오타루 삿포로 화이트 일루미네이션 대게+샤브샤브+음료 무제한</div><div class="price">1,699,000원<span>1인</span></div><div class="grid"><div class="kv"><b>여행사</b>하나투어</div><div class="kv"><b>일정</b>3박 4일</div><div class="kv"><b>항공</b>트리니티항공 직항</div><div class="kv"><b>출발</b>10:20</div><div class="kv"><b>쇼핑</b>0회</div><div class="kv"><b>가이드 경비</b>포함</div><div class="kv"><b>식사</b>9회</div><div class="kv"><b>호텔</b>도카치-마쿠베츠 그랜드브리오 호텔 - 루트-</div><div class="kv"><b>인솔자</b>동행</div></div><div class="fit"><span class="ok">좋은 점</span> 쇼핑 없음 · 가이드 경비 포함 · 직항</div><a class="go" href="/r/n/5xgPyj1j.html" target="_blank" rel="sponsored noopener">오늘 기준 요금 보기</a></div>
 <div class="card"><div class="name">[청주출발][스마트온천특급][삿포로2박]도야/북해도 4일(도야유람선/대게뷔페/1일자유가능)</div><div class="price">1,699,000원<span>1인</span></div><div class="grid"><div class="kv"><b>여행사</b>모두투어</div><div class="kv"><b>일정</b>3박 4일</div><div class="kv"><b>항공</b>에어로케이 직항</div><div class="kv"><b>출발</b>07:50</div><div class="kv"><b>쇼핑</b>1회</div><div class="kv"><b>가이드 경비</b>4,000엔</div><div class="kv"><b>식사</b>8회</div><div class="kv"><b>인솔자</b>동행</div></div><div class="fit"><span class="ok">좋은 점</span> 직항 · 인솔자 동행<br><span class="no">따져볼 점</span> 가이드 경비 현지 4,000엔</div><a class="go" href="/r/n/x9VvXpoV.html" target="_blank" rel="sponsored noopener">오늘 기준 요금 보기</a></div>
@@ -137,10 +139,10 @@ h1{font-size:27px;line-height:1.3;margin:6px 0 4px;letter-spacing:-.02em}
 <div class="card"><div class="name">[청주출발][낭만비에이숙박][쾌적동선] 비에이/북해도 4일(온천2박/3대게뷔페/흰수염폭포야경)</div><div class="price">1,799,000원<span>1인</span></div><div class="grid"><div class="kv"><b>여행사</b>모두투어</div><div class="kv"><b>일정</b>3박 4일</div><div class="kv"><b>항공</b>에어로케이 직항</div><div class="kv"><b>출발</b>07:50</div><div class="kv"><b>쇼핑</b>1회</div><div class="kv"><b>가이드 경비</b>4,000엔</div><div class="kv"><b>식사</b>9회</div><div class="kv"><b>인솔자</b>동행</div></div><div class="fit"><span class="ok">좋은 점</span> 직항 · 인솔자 동행<br><span class="no">따져볼 점</span> 가이드 경비 현지 4,000엔</div><a class="go" href="/r/n/Fhuz34qV.html" target="_blank" rel="sponsored noopener">오늘 기준 요금 보기</a></div>
 <div class="card"><div class="name">북해도4일[프라이빗온천][아시아나항공][료칸숙박]조잔케이/비에이/소운쿄/오타루/삿포로 / 특급온천2박+특급시내1박</div><div class="price">1,849,000원<span>1인</span></div><div class="grid"><div class="kv"><b>여행사</b>교원투어 여행이지</div><div class="kv"><b>일정</b>3박 4일</div><div class="kv"><b>항공</b>아시아나항공 직항</div><div class="kv"><b>출발</b>08:00</div><div class="kv"><b>쇼핑</b>1회</div><div class="kv"><b>가이드 경비</b>포함</div><div class="kv"><b>식사</b>10회</div><div class="kv"><b>호텔</b>ANA 크라운 플라자 삿포로 또는 동급 또는 동급</div><div class="kv"><b>인솔자</b>동행</div></div><div class="fit"><span class="ok">좋은 점</span> 가이드 경비 포함 · 직항 · 인솔자 동행</div><a class="go" href="/r/n/5HyRYCo8.html" target="_blank" rel="sponsored noopener">오늘 기준 요금 보기</a></div>
 <div class="card"><div class="tag gray">호텔 확정</div><div class="name">홋카이도 4일 모리노소라니와 온천1박 홋카이도3온천마을 노잔호스파크 AOAO수족관 도야유람선 노보리베츠 게요리무제한</div><div class="price">1,899,900원<span>1인</span></div><div class="grid"><div class="kv"><b>여행사</b>하나투어</div><div class="kv"><b>일정</b>3박 4일</div><div class="kv"><b>항공</b>에어부산 직항</div><div class="kv"><b>출발</b>09:00</div><div class="kv"><b>쇼핑</b>0회</div><div class="kv"><b>가이드 경비</b>포함</div><div class="kv"><b>식사</b>9회</div><div class="kv"><b>호텔</b>키타유자와 모리 노 소라니와</div><div class="kv"><b>인솔자</b>동행</div></div><div class="fit"><span class="ok">좋은 점</span> 쇼핑 없음 · 가이드 경비 포함 · 직항</div><a class="go" href="/r/n/xjYRd13H.html" target="_blank" rel="sponsored noopener">오늘 기준 요금 보기</a></div>
-<div class='note faq'><h2>자주 묻는 것</h2><p><b>Q. 북해도 패키지 가장 싼 건 얼마예요?</b><br>2026.11.11 기준 1인 999,000원(노랑풍선 3박 4일)부터입니다. 출발일마다 값이 달라서, 위 카드의 「오늘 기준 요금 보기」 에서 날짜별로 확인하세요.</p><p><b>Q. 쇼핑 없는(노쇼핑) 북해도 패키지도 있나요?</b><br>오늘 비교한 66개 중 7개가 쇼핑 0회이고, 그중 가장 싼 건 1인 1,469,900원(하나투어)입니다.</p><p><b>Q. 북해도 패키지 가이드 경비는 따로 내나요?</b><br>오늘 비교한 66개 중 43개가 가이드 경비를 현지에서 따로 냅니다(카드의 「가이드 경비」 칸 — 「포함」 이면 상품값에 들어 있음). 두 분이면 그 돈이 두 배입니다.</p><p><b>Q. 부모님 모시고 가기 편한 북해도 패키지는요?</b><br>낮 출발 · 쇼핑 1회 이하 · 가이드 경비 포함, 이 셋을 다 갖춘 상품이 21개이고 가장 싼 건 1인 1,149,000원(노랑풍선 3박 4일)입니다.</p></div><script type="application/ld+json">{"@context": "https://schema.org", "@type": "FAQPage", "mainEntity": [{"@type": "Question", "name": "북해도 패키지 가장 싼 건 얼마예요?", "acceptedAnswer": {"@type": "Answer", "text": "2026.11.11 기준 1인 999,000원(노랑풍선 3박 4일)부터입니다. 출발일마다 값이 달라서, 위 카드의 「오늘 기준 요금 보기」 에서 날짜별로 확인하세요."}}, {"@type": "Question", "name": "쇼핑 없는(노쇼핑) 북해도 패키지도 있나요?", "acceptedAnswer": {"@type": "Answer", "text": "오늘 비교한 66개 중 7개가 쇼핑 0회이고, 그중 가장 싼 건 1인 1,469,900원(하나투어)입니다."}}, {"@type": "Question", "name": "북해도 패키지 가이드 경비는 따로 내나요?", "acceptedAnswer": {"@type": "Answer", "text": "오늘 비교한 66개 중 43개가 가이드 경비를 현지에서 따로 냅니다(카드의 「가이드 경비」 칸 — 「포함」 이면 상품값에 들어 있음). 두 분이면 그 돈이 두 배입니다."}}, {"@type": "Question", "name": "부모님 모시고 가기 편한 북해도 패키지는요?", "acceptedAnswer": {"@type": "Answer", "text": "낮 출발 · 쇼핑 1회 이하 · 가이드 경비 포함, 이 셋을 다 갖춘 상품이 21개이고 가장 싼 건 1인 1,149,000원(노랑풍선 3박 4일)입니다."}}]}</script>
+<div class='note faq'><h2>자주 묻는 것</h2><p><b>Q. 북해도 패키지 가장 싼 건 얼마예요?</b><br>2026.11.12 기준 1인 1,124,000원(노랑풍선 3박 4일)부터입니다. 출발일마다 값이 달라서, 위 카드의 「오늘 기준 요금 보기」 에서 날짜별로 확인하세요.</p><p><b>Q. 쇼핑 없는(노쇼핑) 북해도 패키지도 있나요?</b><br>오늘 비교한 68개 중 7개가 쇼핑 0회이고, 그중 가장 싼 건 1인 1,469,900원(하나투어)입니다.</p><p><b>Q. 북해도 패키지 가이드 경비는 따로 내나요?</b><br>오늘 비교한 68개 중 44개가 가이드 경비를 현지에서 따로 냅니다(카드의 「가이드 경비」 칸 — 「포함」 이면 상품값에 들어 있음). 두 분이면 그 돈이 두 배입니다.</p><p><b>Q. 부모님 모시고 가기 편한 북해도 패키지는요?</b><br>낮 출발 · 쇼핑 1회 이하 · 가이드 경비 포함, 이 셋을 다 갖춘 상품이 22개이고 가장 싼 건 1인 1,149,000원(노랑풍선 3박 4일)입니다.</p></div><script type="application/ld+json">{"@context": "https://schema.org", "@type": "FAQPage", "mainEntity": [{"@type": "Question", "name": "북해도 패키지 가장 싼 건 얼마예요?", "acceptedAnswer": {"@type": "Answer", "text": "2026.11.12 기준 1인 1,124,000원(노랑풍선 3박 4일)부터입니다. 출발일마다 값이 달라서, 위 카드의 「오늘 기준 요금 보기」 에서 날짜별로 확인하세요."}}, {"@type": "Question", "name": "쇼핑 없는(노쇼핑) 북해도 패키지도 있나요?", "acceptedAnswer": {"@type": "Answer", "text": "오늘 비교한 68개 중 7개가 쇼핑 0회이고, 그중 가장 싼 건 1인 1,469,900원(하나투어)입니다."}}, {"@type": "Question", "name": "북해도 패키지 가이드 경비는 따로 내나요?", "acceptedAnswer": {"@type": "Answer", "text": "오늘 비교한 68개 중 44개가 가이드 경비를 현지에서 따로 냅니다(카드의 「가이드 경비」 칸 — 「포함」 이면 상품값에 들어 있음). 두 분이면 그 돈이 두 배입니다."}}, {"@type": "Question", "name": "부모님 모시고 가기 편한 북해도 패키지는요?", "acceptedAnswer": {"@type": "Answer", "text": "낮 출발 · 쇼핑 1회 이하 · 가이드 경비 포함, 이 셋을 다 갖춘 상품이 22개이고 가장 싼 건 1인 1,149,000원(노랑풍선 3박 4일)입니다."}}]}</script>
 
 <div class="foot">
-가격은 2026.11.11 확인한 성인 1인 표시가입니다. 출발일에 따라 달라집니다.<br>
+가격은 2026.11.12 확인한 성인 1인 표시가입니다. 출발일에 따라 달라집니다.<br>
 예약 링크는 제휴 링크(네이버·마이리얼트립)이며, 예약 시 수수료를 받습니다. <b>가격은 동일합니다.</b><br>
 <a href="https://package-researcher.github.io/">지난 편 전부 모아보기</a> · <a href="https://package-researcher.github.io/deals.html">최근 값이 내려간 패키지</a> · <a href="https://package-researcher.github.io/a/">따져본 글 전체</a><br>
 ▶ <a href="https://pkg-lab.com/go/?q=%EB%B6%81%ED%95%B4%EB%8F%84+12%EC%9B%94&amp;utm_source=ghpages&amp;utm_medium=post&amp;utm_campaign=daily" rel="sponsored noopener">같은 목적지 다른 여행사 패키지까지 넓게 비교 (pkg-lab.com)</a>

diff --git a/r/n/FyAVun9e.html b/r/n/FyAVun9e.html
@@ -1,0 +1,17 @@
+<!doctype html><html lang="ko"><head><meta charset="utf-8">
+<meta name="viewport" content="width=device-width,initial-scale=1">
+<meta name="robots" content="noindex,nofollow">
+<title>예약 페이지로 이동 · 패키지연구소</title>
+<script async src="https://www.googletagmanager.com/gtag/js?id=G-FLBF88V6HX"></script>
+<script>window.dataLayer=window.dataLayer||[];function gtag(){dataLayer.push(arguments);}gtag('js',new Date());gtag('config','G-FLBF88V6HX',{send_page_view:false});</script></head>
+<body style="margin:0;font-family:Pretendard,'Apple SD Gothic Neo','Malgun Gothic',sans-serif;background:#F7F5EF;color:#22314E">
+<main style="max-width:480px;margin:0 auto;padding:48px 16px;text-align:center">
+<p style="font-size:15px;margin:0 0 20px">네이버 패키지 예약 페이지로 이동합니다</p>
+<a href="https://naver.me/FyAVun9e" rel="nofollow sponsored" style="display:inline-block;background:#F07A22;color:#fff;text-decoration:none;padding:14px 28px;border-radius:10px;font-weight:700">내 출발일 요금 보기</a>
+<p style="font-size:11px;opacity:.6;margin-top:28px">이 링크는 제휴 링크이며, 예약 시 일정 수수료를 받습니다. 가격은 동일합니다.</p>
+</main><script>(function(){var b=navigator.webdriver||/bot|crawl|spider|slurp|preview|headless|facebookexternal|yeti|daum|lighthouse/i.test(navigator.userAgent);
+if(b)return;
+var to="https://naver.me/FyAVun9e",s=(new URLSearchParams(location.search)).get('s'),gone=false;function go(){if(gone)return;gone=true;location.replace(to);}
+if(!s){go();return;}
+try{gtag('event','affiliate_click',{partner:'naver',src:s,product:'FyAVun9e',page:'/r/n/FyAVun9e',transport_type:'beacon',event_callback:go});}catch(e){}
+setTimeout(go,350);})();</script></body></html>

diff --git a/r/n/Fz8F5Qvj.html b/r/n/Fz8F5Qvj.html
@@ -1,0 +1,17 @@
+<!doctype html><html lang="ko"><head><meta charset="utf-8">
+<meta name="viewport" content="width=device-width,initial-scale=1">
+<meta name="robots" content="noindex,nofollow">
+<title>예약 페이지로 이동 · 패키지연구소</title>
+<script async src="https://www.googletagmanager.com/gtag/js?id=G-FLBF88V6HX"></script>
+<script>window.dataLayer=window.dataLayer||[];function gtag(){dataLayer.push(arguments);}gtag('js',new Date());gtag('config','G-FLBF88V6HX',{send_page_view:false});</script></head>
+<body style="margin:0;font-family:Pretendard,'Apple SD Gothic Neo','Malgun Gothic',sans-serif;background:#F7F5EF;color:#22314E">
+<main style="max-width:480px;margin:0 auto;padding:48px 16px;text-align:center">
+<p style="font-size:15px;margin:0 0 20px">네이버 패키지 예약 페이지로 이동합니다</p>
+<a href="https://naver.me/Fz8F5Qvj" rel="nofollow sponsored" style="display:inline-block;background:#F07A22;color:#fff;text-decoration:none;padding:14px 28px;border-radius:10px;font-weight:700">내 출발일 요금 보기</a>
+<p style="font-size:11px;opacity:.6;margin-top:28px">이 링크는 제휴 링크이며, 예약 시 일정 수수료를 받습니다. 가격은 동일합니다.</p>
+</main><script>(function(){var b=navigator.webdriver||/bot|crawl|spider|slurp|preview|headless|facebookexternal|yeti|daum|lighthouse/i.test(navigator.userAgent);
+if(b)return;
+var to="https://naver.me/Fz8F5Qvj",s=(new URLSearchParams(location.search)).get('s'),gone=false;function go(){if(gone)return;gone=true;location.replace(to);}
+if(!s){go();return;}
+try{gtag('event','affiliate_click',{partner:'naver',src:s,product:'Fz8F5Qvj',page:'/r/n/Fz8F5Qvj',transport_type:'beacon',event_callback:go});}catch(e){}
+setTimeout(go,350);})();</script></body></html>

diff --git a/r/n/xJcmAc9F.html b/r/n/xJcmAc9F.html
@@ -1,0 +1,17 @@
+<!doctype html><html lang="ko"><head><meta charset="utf-8">
+<meta name="viewport" content="width=device-width,initial-scale=1">
+<meta name="robots" content="noindex,nofollow">
+<title>예약 페이지로 이동 · 패키지연구소</title>
+<script async src="https://www.googletagmanager.com/gtag/js?id=G-FLBF88V6HX"></script>
+<script>window.dataLayer=window.dataLayer||[];function gtag(){dataLayer.push(arguments);}gtag('js',new Date());gtag('config','G-FLBF88V6HX',{send_page_view:false});</script></head>
+<body style="margin:0;font-family:Pretendard,'Apple SD Gothic Neo','Malgun Gothic',sans-serif;background:#F7F5EF;color:#22314E">
+<main style="max-width:480px;margin:0 auto;padding:48px 16px;text-align:center">
+<p style="font-size:15px;margin:0 0 20px">네이버 패키지 예약 페이지로 이동합니다</p>
+<a href="https://naver.me/xJcmAc9F" rel="nofollow sponsored" style="display:inline-block;background:#F07A22;color:#fff;text-decoration:none;padding:14px 28px;border-radius:10px;font-weight:700">내 출발일 요금 보기</a>
+<p style="font-size:11px;opacity:.6;margin-top:28px">이 링크는 제휴 링크이며, 예약 시 일정 수수료를 받습니다. 가격은 동일합니다.</p>
+</main><script>(function(){var b=navigator.webdriver||/bot|crawl|spider|slurp|preview|headless|facebookexternal|yeti|daum|lighthouse/i.test(navigator.userAgent);
+if(b)return;
+var to="https://naver.me/xJcmAc9F",s=(new URLSearchParams(location.search)).get('s'),gone=false;function go(){if(gone)return;gone=true;location.replace(to);}
+if(!s){go();return;}
+try{gtag('event','affiliate_click',{partner:'naver',src:s,product:'xJcmAc9F',page:'/r/n/xJcmAc9F',transport_type:'beacon',event_callback:go});}catch(e){}
+setTimeout(go,350);})();</script></body></html>
